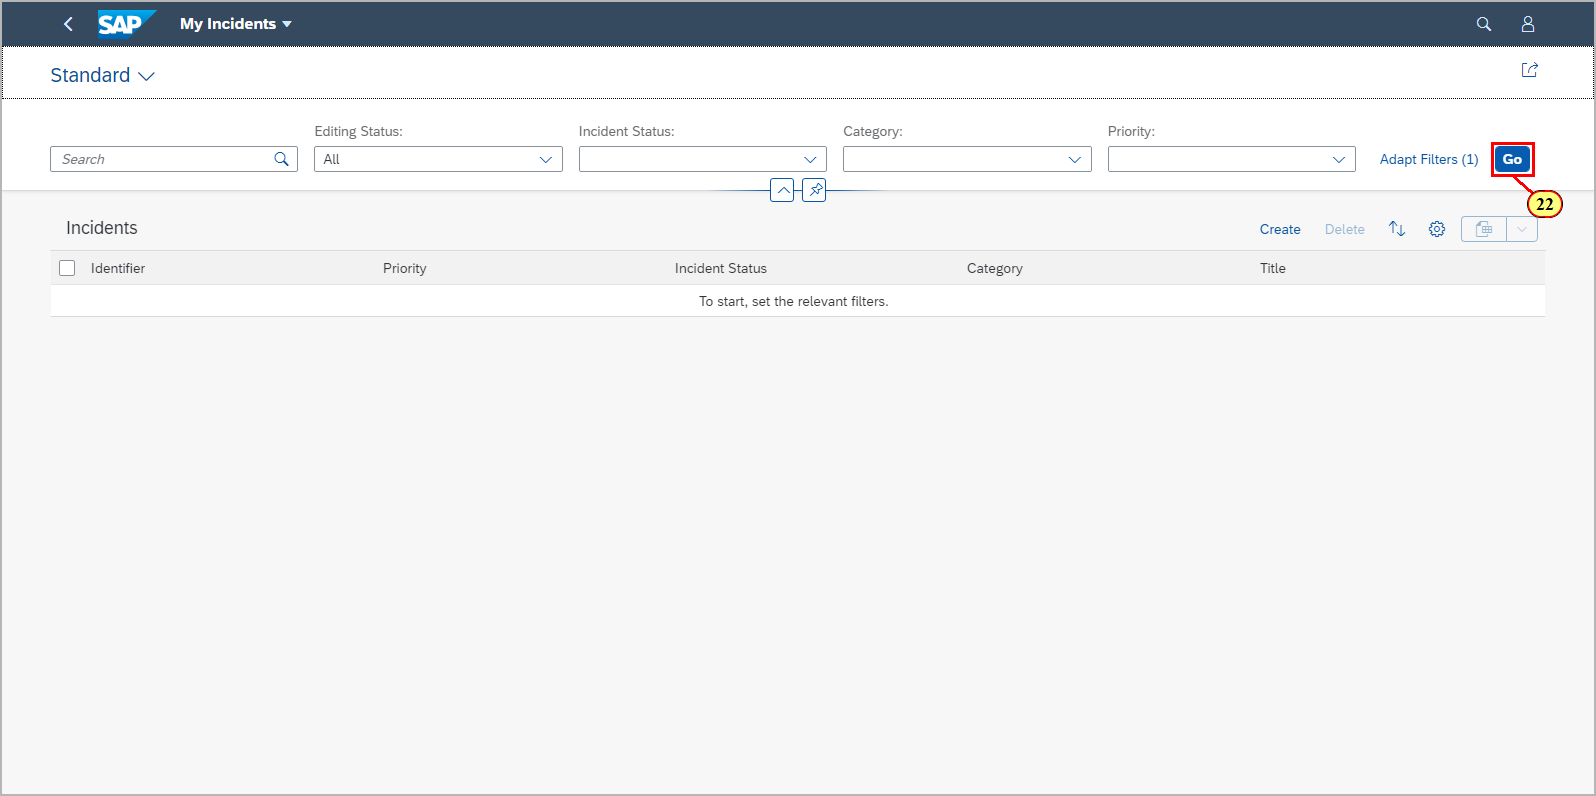
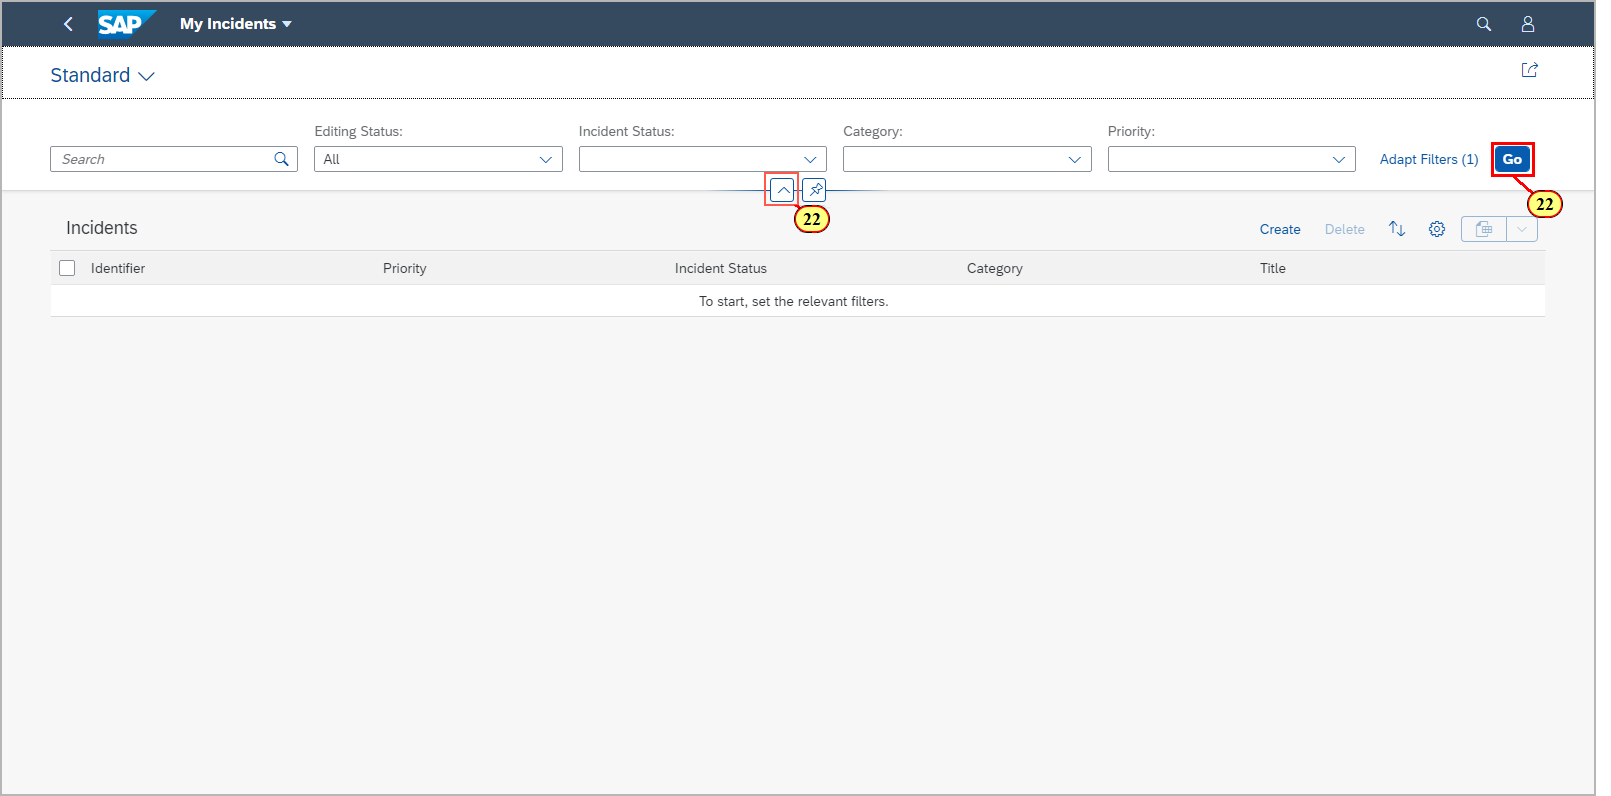
ex1 readme

diff --git a/exercises/ex1/README.md b/exercises/ex1/README.md
@@ -1,18 +1,19 @@
-# Exercise 1 - Generating a Fiori elements app
+# Exercise 1 - Generating a SAP Fiori elements app
 
 In this exercise, you will create a SAP Fiori elements application of type List Report Object Page, based on the given
 SAP Cloud Application Programming Model sample service.
-For this you will make usage of the SAP Fiori Tools Application Generator.\
+For this you will make usage of the SAP Fiori Tools Application Generator.
 
 ## Exercise 1.1 Using the SAP Fiori Tools Application Generator
 
-(1) In SAP Business Application Studio, invoke the Command Palette
-(View -\>Command Palette or ctrl+shift+p) and choose
- ![](./images/image2.png).
+(1) In SAP Business Application Studio, invoke the Command Palette\
+(View -\>Find Command... or ctrl+shift+p(Win)/cmd+shift+p(Mac))\
+and type **yeoman** in the search field.\
+Choose ![](./images/image2.png).
 
 ![](./images/image1.png)
 
-(2) Click on the tile **SAP Fiori elements application**.\
+(2) Click on tile **SAP Fiori elements application**.\
 (3) Click ![](./images/image4.png).
 
 ![](./images/image3.png)
@@ -94,7 +95,7 @@ After completing these steps you will have started and tested the generated app.
 
 (20) Switch to the service preview browser tab and refresh it.\
 Click on the served path.\
-If your preview browser tab had been closed, you can relaunch it by following the steps 'Reopen the exposed ports' as described [here](../ex0#reopen-the-exposed-port).\
+If your preview browser tab had been closed, you can relaunch it by following the steps 'Reopen the exposed ports' as described [here](../ex0#reopen-the-exposed-port).
 
 
 ![](./images/image22.png)
@@ -104,7 +105,7 @@ If your preview browser tab had been closed, you can relaunch it by following th
 ![](./images/image24.png)
 
 (22) Click ![](./images/image26.png) to trigger selection.\
-You can use the selection fields in order to set a filter.\
+You can use the selection fields in order to set a filter. If collapsed, you can expand the selection field area by clicking the small chevron icon on top.
 
 ![](./images/image25.png)
 
@@ -113,13 +114,22 @@ You can use the selection fields in order to set a filter.\
 ![](./images/image27.png)
 
 
-On the object page, you can click **Edit** which creates an edit draft and sets the UI to edit mode.\
-Changing input field values will automatically update the draft when input field focus is changed, or when you navigate back to the list report.\
-While in edit mode, the List Report shows a draft indicator in the corresponding line item.
-The draft is saved back to the active instance by pressing **Save** on the bottom of the object page.\
-You can create a new draft on the List Report by clicking button **Create**.
+On the object page, you can click **Edit** which creates an edit draft and sets the UI to edit mode.
 
 ![](./images/image28.png)
+
+Changing input field values will automatically update the draft when input field focus is changed, or when you navigate back to the list report.\
+The draft is saved back to the active instance by pressing **Save** on the bottom of the object page.
+
+![](./images/image28a.png)
+
+For instances in edit mode, the List Report shows a draft indicator in the corresponding line item.\
+You can create a new draft on the List Report by clicking button **Create**.
+
+![](./images/image27a.png)
+
+
+
 
 ## Summary
 

diff --git a/exercises/ex0/README.md b/exercises/ex0/README.md
@@ -84,7 +84,7 @@ When the cloning is finished, open a workspace by clicking the button in the pro
 
 ![open workspace](../ex0/images/00_00_0065.png)
 
-Select folder **teched2020-IIS360** and click **Open**.
+Select folder **teched2020-IIS360** and click **Open**. This will restart SAP Business Application Studio and show the selected workspace folder content in the Explorer.
 
 ![select ws folder](../ex0/images/00_00_0066.png)
 
@@ -111,7 +111,8 @@ You can now provide an alias for the exposed port.\
 ![SAP Business Application Studio - Google Chrome](../ex0/images/00_00_0120.png)
 
 A browser is opened.\
-(6) Click the **$metadata** link
+(6) Click the **$metadata** link to get the OData services metadata shown.\
+Click on the different service entities to display data.
 
 ![metadata](../ex0/images/00_00_0130.png)
 
@@ -143,4 +144,4 @@ With the setup procedure done, you now have completed:
 - Creation of your development space
 - Setting up the sample OData V4 service in SBAS
 
-Continue to - [Exercise 1 - Generation of the Fiori elements app](../ex1/README.md)
+Continue to - [Exercise 1 - Generating a SAP Fiori elements app](../ex1/README.md)
